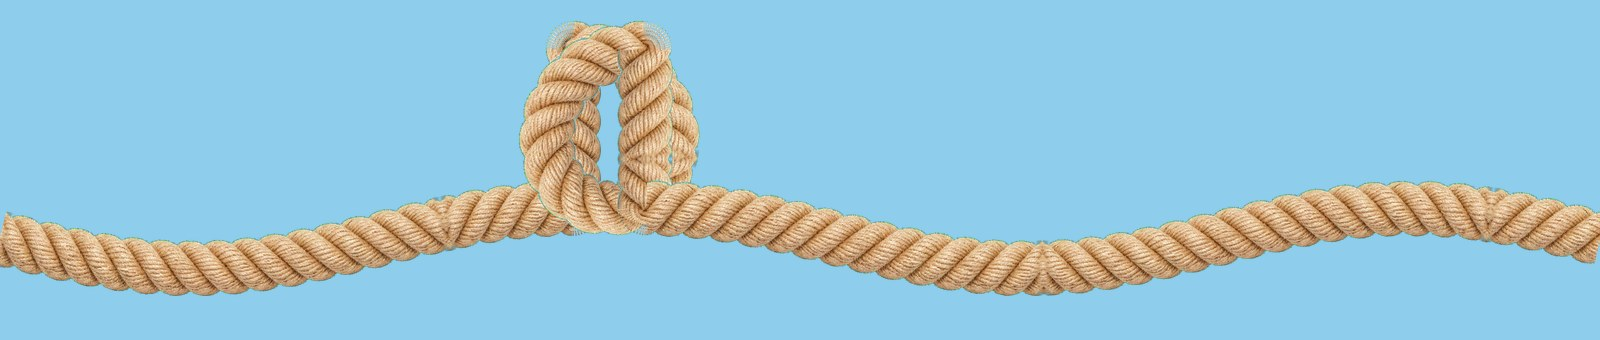
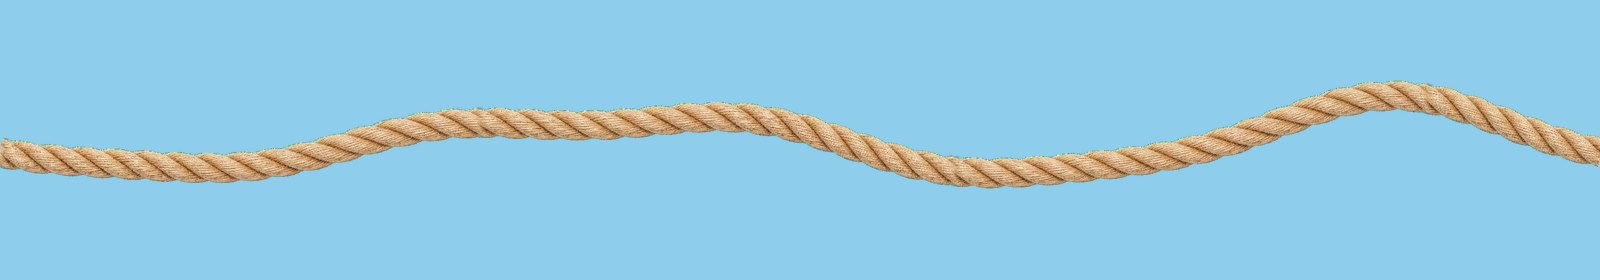
Organic wave: base sine + small 3rd/5th harmonics (each hill/trough unique, edges still periodic); fresh filename

diff --git a/index.html b/index.html
@@ -108,10 +108,10 @@
 <body>
 
 <nav class="rope-nav" aria-label="main">
-  <svg viewBox="0 0 1600 260" style="display:block; width:100%; height:auto;" role="navigation">
-    <image href="assets/rope-wave-clean.png" x="0" y="0" width="1600" height="260"/>
+  <svg viewBox="0 0 1600 280" style="display:block; width:100%; height:auto;" role="navigation">
+    <image href="assets/rope-wave-organic.png" x="0" y="0" width="1600" height="280"/>
     <defs>
-      <path id="ropePath" d="M 0.0 130.0 L 3.9 131.0 L 7.7 132.1 L 11.6 133.1 L 15.5 134.1 L 19.3 135.1 L 23.2 136.2 L 27.1 137.2 L 30.9 138.2 L 34.8 139.2 L 38.7 140.2 L 42.6 141.2 L 46.4 142.1 L 50.3 143.1 L 54.2 144.0 L 58.1 145.0 L 62.0 145.9 L 65.9 146.8 L 69.8 147.7 L 73.7 148.6 L 77.6 149.5 L 81.5 150.3 L 85.4 151.1 L 89.3 151.9 L 93.3 152.7 L 97.2 153.5 L 101.1 154.2 L 105.0 155.0 L 109.0 155.7 L 112.9 156.4 L 116.9 157.0 L 120.8 157.6 L 124.8 158.2 L 128.7 158.8 L 132.7 159.4 L 136.7 159.9 L 140.6 160.4 L 144.6 160.8 L 148.6 161.3 L 152.6 161.7 L 156.5 162.0 L 160.5 162.4 L 164.5 162.7 L 168.5 163.0 L 172.5 163.2 L 176.5 163.4 L 180.5 163.6 L 184.5 163.7 L 188.5 163.9 L 192.5 163.9 L 196.5 164.0 L 200.5 164.0 L 204.5 164.0 L 208.5 163.9 L 212.5 163.8 L 216.5 163.7 L 220.5 163.6 L 224.5 163.4 L 228.5 163.2 L 232.5 162.9 L 236.4 162.6 L 240.4 162.3 L 244.4 162.0 L 248.4 161.6 L 252.4 161.2 L 256.4 160.7 L 260.3 160.3 L 264.3 159.8 L 268.3 159.2 L 272.2 158.7 L 276.2 158.1 L 280.1 157.5 L 284.1 156.9 L 288.0 156.2 L 292.0 155.5 L 295.9 154.8 L 299.8 154.1 L 303.8 153.3 L 307.7 152.5 L 311.6 151.8 L 315.5 150.9 L 319.4 150.1 L 323.4 149.3 L 327.3 148.4 L 331.2 147.5 L 335.1 146.6 L 338.9 145.7 L 342.8 144.8 L 346.7 143.8 L 350.6 142.9 L 354.5 141.9 L 358.4 140.9 L 362.2 139.9 L 366.1 138.9 L 370.0 137.9 L 373.9 136.9 L 377.7 135.9 L 381.6 134.9 L 385.5 133.9 L 389.3 132.8 L 393.2 131.8 L 397.1 130.8 L 400.9 129.8 L 404.8 128.7 L 408.7 127.7 L 412.5 126.7 L 416.4 125.6 L 420.3 124.6 L 424.1 123.6 L 428.0 122.6 L 431.9 121.6 L 435.7 120.6 L 439.6 119.6 L 443.5 118.6 L 447.4 117.6 L 451.3 116.7 L 455.1 115.7 L 459.0 114.8 L 462.9 113.9 L 466.8 113.0 L 470.7 112.1 L 474.6 111.2 L 478.5 110.3 L 482.4 109.5 L 486.4 108.7 L 490.3 107.9 L 494.2 107.1 L 498.1 106.3 L 502.1 105.6 L 506.0 104.9 L 509.9 104.2 L 513.9 103.5 L 517.8 102.8 L 521.8 102.2 L 525.7 101.6 L 529.7 101.1 L 533.6 100.5 L 537.6 100.0 L 541.6 99.5 L 545.6 99.1 L 549.5 98.6 L 553.5 98.2 L 557.5 97.9 L 561.5 97.5 L 565.5 97.2 L 569.5 97.0 L 573.5 96.7 L 577.5 96.5 L 581.4 96.4 L 585.4 96.2 L 589.4 96.1 L 593.4 96.0 L 597.4 96.0 L 601.4 96.0 L 605.4 96.0 L 609.4 96.1 L 613.4 96.2 L 617.4 96.3 L 621.4 96.5 L 625.4 96.7 L 629.4 96.9 L 633.4 97.2 L 637.4 97.5 L 641.4 97.8 L 645.4 98.1 L 649.4 98.5 L 653.3 98.9 L 657.3 99.4 L 661.3 99.9 L 665.3 100.4 L 669.2 100.9 L 673.2 101.5 L 677.1 102.1 L 681.1 102.7 L 685.0 103.3 L 689.0 104.0 L 692.9 104.7 L 696.9 105.4 L 700.8 106.1 L 704.7 106.9 L 708.6 107.6 L 712.6 108.4 L 716.5 109.3 L 720.4 110.1 L 724.3 111.0 L 728.2 111.8 L 732.1 112.7 L 736.0 113.6 L 739.9 114.5 L 743.8 115.5 L 747.7 116.4 L 751.5 117.4 L 755.4 118.3 L 759.3 119.3 L 763.2 120.3 L 767.1 121.3 L 770.9 122.3 L 774.8 123.3 L 778.7 124.3 L 782.5 125.4 L 786.4 126.4 L 790.3 127.4 L 794.1 128.4 L 798.0 129.5 L 801.9 130.5 L 805.7 131.5 L 809.6 132.6 L 813.5 133.6 L 817.3 134.6 L 821.2 135.6 L 825.1 136.6 L 828.9 137.7 L 832.8 138.7 L 836.7 139.7 L 840.5 140.6 L 844.4 141.6 L 848.3 142.6 L 852.2 143.6 L 856.1 144.5 L 860.0 145.4 L 863.9 146.3 L 867.8 147.3 L 871.7 148.1 L 875.6 149.0 L 879.5 149.9 L 883.4 150.7 L 887.3 151.5 L 891.2 152.3 L 895.1 153.1 L 899.1 153.9 L 903.0 154.6 L 906.9 155.3 L 910.9 156.0 L 914.8 156.7 L 918.8 157.3 L 922.7 157.9 L 926.7 158.5 L 930.6 159.1 L 934.6 159.6 L 938.6 160.1 L 942.5 160.6 L 946.5 161.0 L 950.5 161.5 L 954.5 161.8 L 958.5 162.2 L 962.4 162.5 L 966.4 162.8 L 970.4 163.1 L 974.4 163.3 L 978.4 163.5 L 982.4 163.7 L 986.4 163.8 L 990.4 163.9 L 994.4 164.0 L 998.4 164.0 L 1002.4 164.0 L 1006.4 164.0 L 1010.4 163.9 L 1014.4 163.8 L 1018.4 163.6 L 1022.4 163.5 L 1026.4 163.3 L 1030.4 163.0 L 1034.4 162.8 L 1038.4 162.5 L 1042.4 162.1 L 1046.3 161.8 L 1050.3 161.4 L 1054.3 161.0 L 1058.3 160.5 L 1062.2 160.0 L 1066.2 159.5 L 1070.2 159.0 L 1074.1 158.4 L 1078.1 157.8 L 1082.0 157.2 L 1086.0 156.5 L 1089.9 155.9 L 1093.9 155.2 L 1097.8 154.5 L 1101.7 153.7 L 1105.7 153.0 L 1109.6 152.2 L 1113.5 151.4 L 1117.4 150.5 L 1121.3 149.7 L 1125.2 148.8 L 1129.1 148.0 L 1133.0 147.1 L 1136.9 146.2 L 1140.8 145.2 L 1144.7 144.3 L 1148.6 143.4 L 1152.5 142.4 L 1156.4 141.4 L 1160.2 140.4 L 1164.1 139.5 L 1168.0 138.5 L 1171.9 137.5 L 1175.7 136.4 L 1179.6 135.4 L 1183.5 134.4 L 1187.3 133.4 L 1191.2 132.3 L 1195.1 131.3 L 1198.9 130.3 L 1202.8 129.3 L 1206.7 128.2 L 1210.5 127.2 L 1214.4 126.2 L 1218.3 125.1 L 1222.1 124.1 L 1226.0 123.1 L 1229.9 122.1 L 1233.7 121.1 L 1237.6 120.1 L 1241.5 119.1 L 1245.4 118.1 L 1249.2 117.2 L 1253.1 116.2 L 1257.0 115.3 L 1260.9 114.3 L 1264.8 113.4 L 1268.7 112.5 L 1272.6 111.6 L 1276.5 110.8 L 1280.4 109.9 L 1284.3 109.1 L 1288.2 108.3 L 1292.2 107.5 L 1296.1 106.7 L 1300.0 106.0 L 1303.9 105.2 L 1307.9 104.5 L 1311.8 103.8 L 1315.8 103.2 L 1319.7 102.5 L 1323.7 101.9 L 1327.6 101.3 L 1331.6 100.8 L 1335.6 100.3 L 1339.5 99.8 L 1343.5 99.3 L 1347.5 98.9 L 1351.4 98.4 L 1355.4 98.1 L 1359.4 97.7 L 1363.4 97.4 L 1367.4 97.1 L 1371.4 96.9 L 1375.4 96.6 L 1379.4 96.4 L 1383.4 96.3 L 1387.4 96.2 L 1391.4 96.1 L 1395.4 96.0 L 1399.4 96.0 L 1403.4 96.0 L 1407.4 96.1 L 1411.4 96.1 L 1415.4 96.2 L 1419.4 96.4 L 1423.4 96.6 L 1427.4 96.8 L 1431.3 97.0 L 1435.3 97.3 L 1439.3 97.6 L 1443.3 97.9 L 1447.3 98.3 L 1451.3 98.7 L 1455.2 99.2 L 1459.2 99.6 L 1463.2 100.1 L 1467.2 100.6 L 1471.1 101.2 L 1475.1 101.7 L 1479.0 102.3 L 1483.0 103.0 L 1486.9 103.6 L 1490.9 104.3 L 1494.8 105.0 L 1498.7 105.7 L 1502.7 106.5 L 1506.6 107.2 L 1510.5 108.0 L 1514.4 108.8 L 1518.4 109.7 L 1522.3 110.5 L 1526.2 111.4 L 1530.1 112.3 L 1534.0 113.1 L 1537.9 114.1 L 1541.8 115.0 L 1545.6 115.9 L 1549.5 116.9 L 1553.4 117.8 L 1557.3 118.8 L 1561.2 119.8 L 1565.0 120.8 L 1568.9 121.8 L 1572.8 122.8 L 1576.7 123.8 L 1580.5 124.8 L 1584.4 125.8 L 1588.3 126.9 L 1592.1 127.9 L 1596.0 128.9 L 1599.9 130.0" />
+      <path id="ropePath" d="M 0.0 152.1 L 3.9 152.8 L 7.9 153.5 L 11.8 154.2 L 15.8 154.9 L 19.7 155.5 L 23.7 156.0 L 27.6 156.6 L 31.6 157.1 L 35.6 157.5 L 39.6 158.0 L 43.5 158.4 L 47.5 158.8 L 51.5 159.1 L 55.5 159.5 L 59.5 159.8 L 63.5 160.1 L 67.4 160.4 L 71.4 160.7 L 75.4 160.9 L 79.4 161.2 L 83.4 161.4 L 87.4 161.7 L 91.4 161.9 L 95.4 162.1 L 99.4 162.4 L 103.4 162.6 L 107.4 162.8 L 111.4 163.1 L 115.4 163.3 L 119.3 163.5 L 123.3 163.8 L 127.3 164.0 L 131.3 164.2 L 135.3 164.5 L 139.3 164.7 L 143.3 164.9 L 147.3 165.2 L 151.3 165.4 L 155.3 165.6 L 159.3 165.8 L 163.3 166.1 L 167.3 166.3 L 171.3 166.5 L 175.3 166.7 L 179.3 166.8 L 183.3 167.0 L 187.3 167.1 L 191.2 167.3 L 195.2 167.4 L 199.2 167.5 L 203.2 167.5 L 207.2 167.6 L 211.2 167.6 L 215.2 167.5 L 219.2 167.5 L 223.2 167.4 L 227.2 167.3 L 231.2 167.1 L 235.2 166.9 L 239.2 166.6 L 243.2 166.4 L 247.2 166.0 L 251.2 165.7 L 255.2 165.3 L 259.1 164.8 L 263.1 164.3 L 267.1 163.8 L 271.0 163.2 L 275.0 162.6 L 278.9 161.9 L 282.9 161.2 L 286.8 160.4 L 290.7 159.7 L 294.6 158.9 L 298.5 158.0 L 302.4 157.1 L 306.3 156.2 L 310.2 155.3 L 314.1 154.3 L 318.0 153.3 L 321.9 152.3 L 325.7 151.3 L 329.6 150.2 L 333.4 149.2 L 337.3 148.1 L 341.1 147.0 L 345.0 146.0 L 348.8 144.9 L 352.7 143.8 L 356.5 142.7 L 360.4 141.6 L 364.3 140.5 L 368.1 139.5 L 372.0 138.4 L 375.8 137.4 L 379.7 136.4 L 383.6 135.4 L 387.5 134.4 L 391.3 133.5 L 395.2 132.6 L 399.1 131.7 L 403.0 130.8 L 407.0 130.0 L 410.9 129.2 L 414.8 128.5 L 418.8 127.8 L 422.7 127.1 L 426.7 126.5 L 430.6 125.9 L 434.6 125.4 L 438.5 124.9 L 442.5 124.5 L 446.5 124.1 L 450.5 123.7 L 454.5 123.4 L 458.5 123.1 L 462.5 122.9 L 466.5 122.7 L 470.4 122.6 L 474.4 122.5 L 478.4 122.4 L 482.4 122.4 L 486.4 122.4 L 490.4 122.4 L 494.4 122.5 L 498.4 122.5 L 502.4 122.6 L 506.4 122.8 L 510.4 122.9 L 514.4 123.1 L 518.4 123.2 L 522.4 123.4 L 526.4 123.5 L 530.4 123.7 L 534.4 123.9 L 538.4 124.1 L 542.4 124.2 L 546.4 124.4 L 550.4 124.5 L 554.4 124.6 L 558.4 124.7 L 562.4 124.8 L 566.4 124.9 L 570.4 125.0 L 574.4 125.0 L 578.4 125.0 L 582.4 125.0 L 586.4 124.9 L 590.4 124.8 L 594.4 124.7 L 598.4 124.6 L 602.4 124.5 L 606.4 124.3 L 610.4 124.1 L 614.4 123.8 L 618.4 123.6 L 622.4 123.3 L 626.4 123.0 L 630.3 122.7 L 634.3 122.4 L 638.3 122.0 L 642.3 121.7 L 646.3 121.3 L 650.3 120.9 L 654.2 120.6 L 658.2 120.2 L 662.2 119.8 L 666.2 119.4 L 670.2 119.1 L 674.2 118.7 L 678.1 118.4 L 682.1 118.1 L 686.1 117.8 L 690.1 117.5 L 694.1 117.3 L 698.1 117.0 L 702.1 116.9 L 706.1 116.7 L 710.1 116.6 L 714.1 116.5 L 718.1 116.5 L 722.1 116.6 L 726.1 116.6 L 730.1 116.8 L 734.1 116.9 L 738.1 117.2 L 742.1 117.4 L 746.1 117.8 L 750.0 118.2 L 754.0 118.6 L 758.0 119.2 L 761.9 119.7 L 765.9 120.3 L 769.8 121.0 L 773.8 121.8 L 777.7 122.5 L 781.6 123.4 L 785.5 124.2 L 789.4 125.2 L 793.3 126.1 L 797.1 127.2 L 801.0 128.2 L 804.8 129.3 L 808.7 130.4 L 812.5 131.6 L 816.3 132.7 L 820.2 133.9 L 824.0 135.2 L 827.8 136.4 L 831.6 137.7 L 835.3 139.0 L 839.1 140.2 L 842.9 141.5 L 846.7 142.8 L 850.5 144.1 L 854.3 145.4 L 858.1 146.7 L 861.8 148.0 L 865.6 149.3 L 869.4 150.6 L 873.2 151.8 L 877.0 153.1 L 880.8 154.3 L 884.6 155.5 L 888.5 156.7 L 892.3 157.8 L 896.1 158.9 L 900.0 160.0 L 903.9 161.1 L 907.7 162.1 L 911.6 163.0 L 915.5 164.0 L 919.4 164.8 L 923.3 165.7 L 927.2 166.5 L 931.2 167.2 L 935.1 167.9 L 939.0 168.6 L 943.0 169.2 L 947.0 169.7 L 950.9 170.2 L 954.9 170.7 L 958.9 171.1 L 962.9 171.4 L 966.9 171.7 L 970.8 172.0 L 974.8 172.2 L 978.8 172.4 L 982.8 172.5 L 986.8 172.5 L 990.8 172.6 L 994.8 172.6 L 998.8 172.5 L 1002.8 172.5 L 1006.8 172.4 L 1010.8 172.2 L 1014.8 172.1 L 1018.8 171.9 L 1022.8 171.6 L 1026.8 171.4 L 1030.8 171.1 L 1034.8 170.9 L 1038.8 170.6 L 1042.8 170.3 L 1046.8 169.9 L 1050.7 169.6 L 1054.7 169.2 L 1058.7 168.9 L 1062.7 168.5 L 1066.7 168.1 L 1070.7 167.8 L 1074.6 167.4 L 1078.6 167.0 L 1082.6 166.6 L 1086.6 166.2 L 1090.6 165.8 L 1094.5 165.3 L 1098.5 164.9 L 1102.5 164.5 L 1106.5 164.0 L 1110.4 163.6 L 1114.4 163.1 L 1118.4 162.7 L 1122.4 162.2 L 1126.3 161.7 L 1130.3 161.2 L 1134.3 160.7 L 1138.2 160.1 L 1142.2 159.6 L 1146.1 159.0 L 1150.1 158.4 L 1154.1 157.8 L 1158.0 157.1 L 1161.9 156.5 L 1165.9 155.8 L 1169.8 155.1 L 1173.7 154.3 L 1177.7 153.5 L 1181.6 152.7 L 1185.5 151.9 L 1189.4 151.0 L 1193.3 150.1 L 1197.2 149.2 L 1201.1 148.2 L 1204.9 147.2 L 1208.8 146.2 L 1212.7 145.1 L 1216.5 144.1 L 1220.4 142.9 L 1224.2 141.8 L 1228.0 140.6 L 1231.8 139.4 L 1235.6 138.2 L 1239.4 136.9 L 1243.2 135.6 L 1247.0 134.3 L 1250.8 133.0 L 1254.5 131.7 L 1258.3 130.3 L 1262.1 129.0 L 1265.8 127.6 L 1269.6 126.2 L 1273.3 124.8 L 1277.1 123.4 L 1280.8 122.0 L 1284.6 120.6 L 1288.3 119.2 L 1292.1 117.9 L 1295.8 116.5 L 1299.6 115.1 L 1303.4 113.8 L 1307.2 112.5 L 1310.9 111.2 L 1314.7 109.9 L 1318.5 108.7 L 1322.3 107.4 L 1326.2 106.3 L 1330.0 105.1 L 1333.8 104.1 L 1337.7 103.0 L 1341.6 102.0 L 1345.5 101.1 L 1349.4 100.2 L 1353.3 99.4 L 1357.2 98.6 L 1361.2 98.0 L 1365.1 97.4 L 1369.1 96.8 L 1373.1 96.4 L 1377.0 96.0 L 1381.0 95.7 L 1385.0 95.5 L 1389.0 95.4 L 1393.0 95.3 L 1397.0 95.4 L 1401.0 95.5 L 1405.0 95.7 L 1409.0 96.0 L 1413.0 96.4 L 1417.0 96.9 L 1420.9 97.4 L 1424.9 98.0 L 1428.8 98.7 L 1432.7 99.5 L 1436.6 100.3 L 1440.5 101.2 L 1444.4 102.1 L 1448.3 103.1 L 1452.2 104.2 L 1456.0 105.3 L 1459.8 106.5 L 1463.7 107.7 L 1467.5 108.9 L 1471.2 110.2 L 1475.0 111.5 L 1478.8 112.8 L 1482.6 114.1 L 1486.3 115.5 L 1490.1 116.9 L 1493.8 118.3 L 1497.6 119.7 L 1501.3 121.1 L 1505.1 122.5 L 1508.8 124.0 L 1512.5 125.4 L 1516.3 126.8 L 1520.0 128.2 L 1523.8 129.6 L 1527.5 131.0 L 1531.3 132.4 L 1535.0 133.7 L 1538.8 135.1 L 1542.6 136.4 L 1546.4 137.6 L 1550.2 138.9 L 1554.0 140.1 L 1557.8 141.3 L 1561.6 142.5 L 1565.5 143.6 L 1569.3 144.7 L 1573.2 145.8 L 1577.0 146.8 L 1580.9 147.8 L 1584.8 148.8 L 1588.7 149.7 L 1592.6 150.5 L 1596.5 151.4" />
     </defs>
     <text style="font-family:'Sancreek',serif; font-size:52px; letter-spacing:0.08em;"
           fill="var(--white)" stroke="var(--red)" stroke-width="1.6" paint-order="stroke" dy="-16">